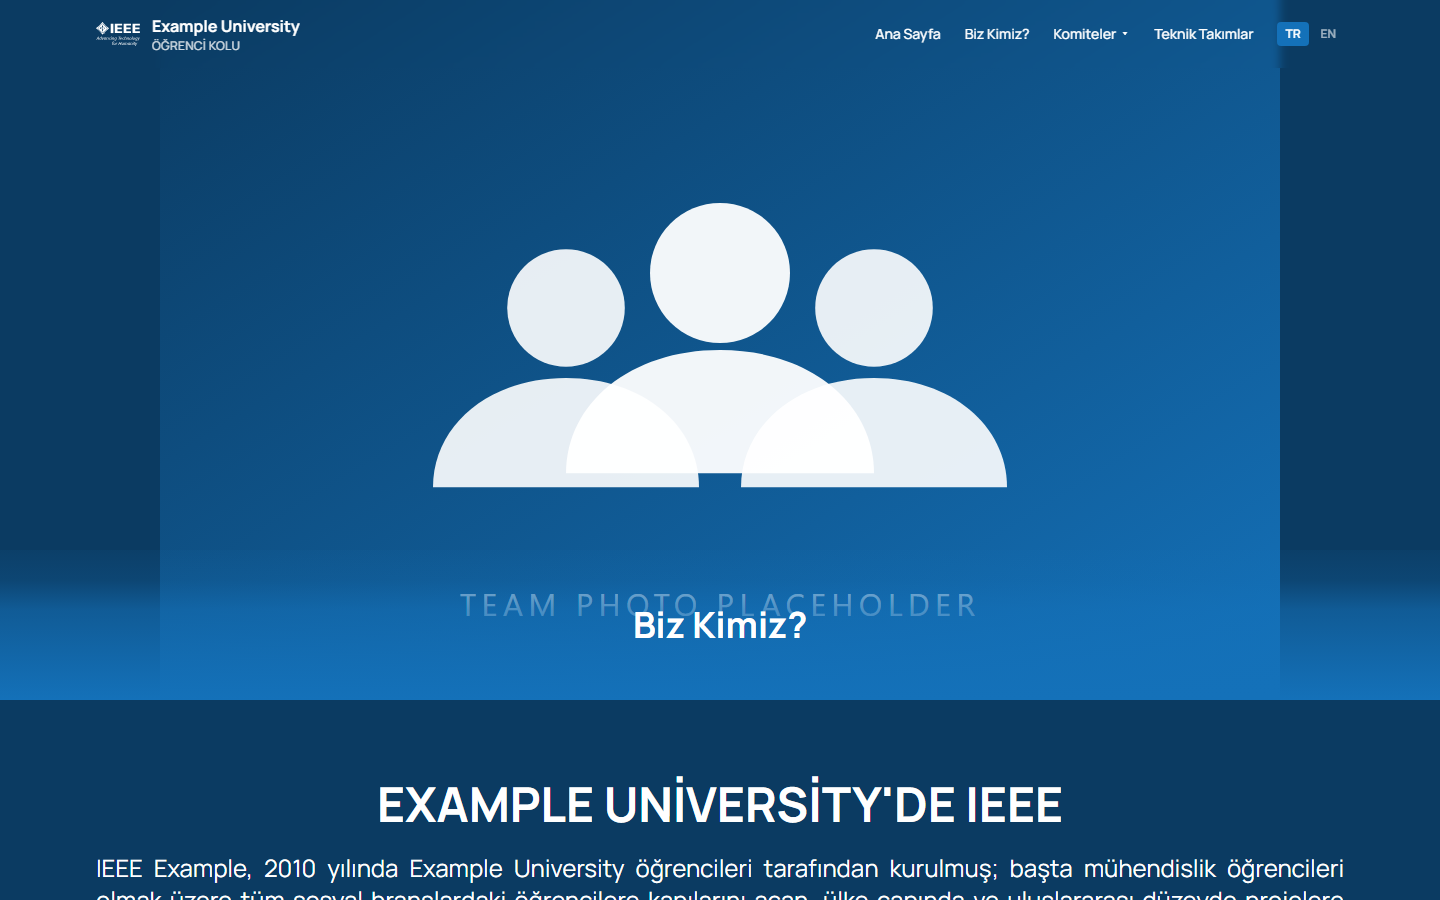
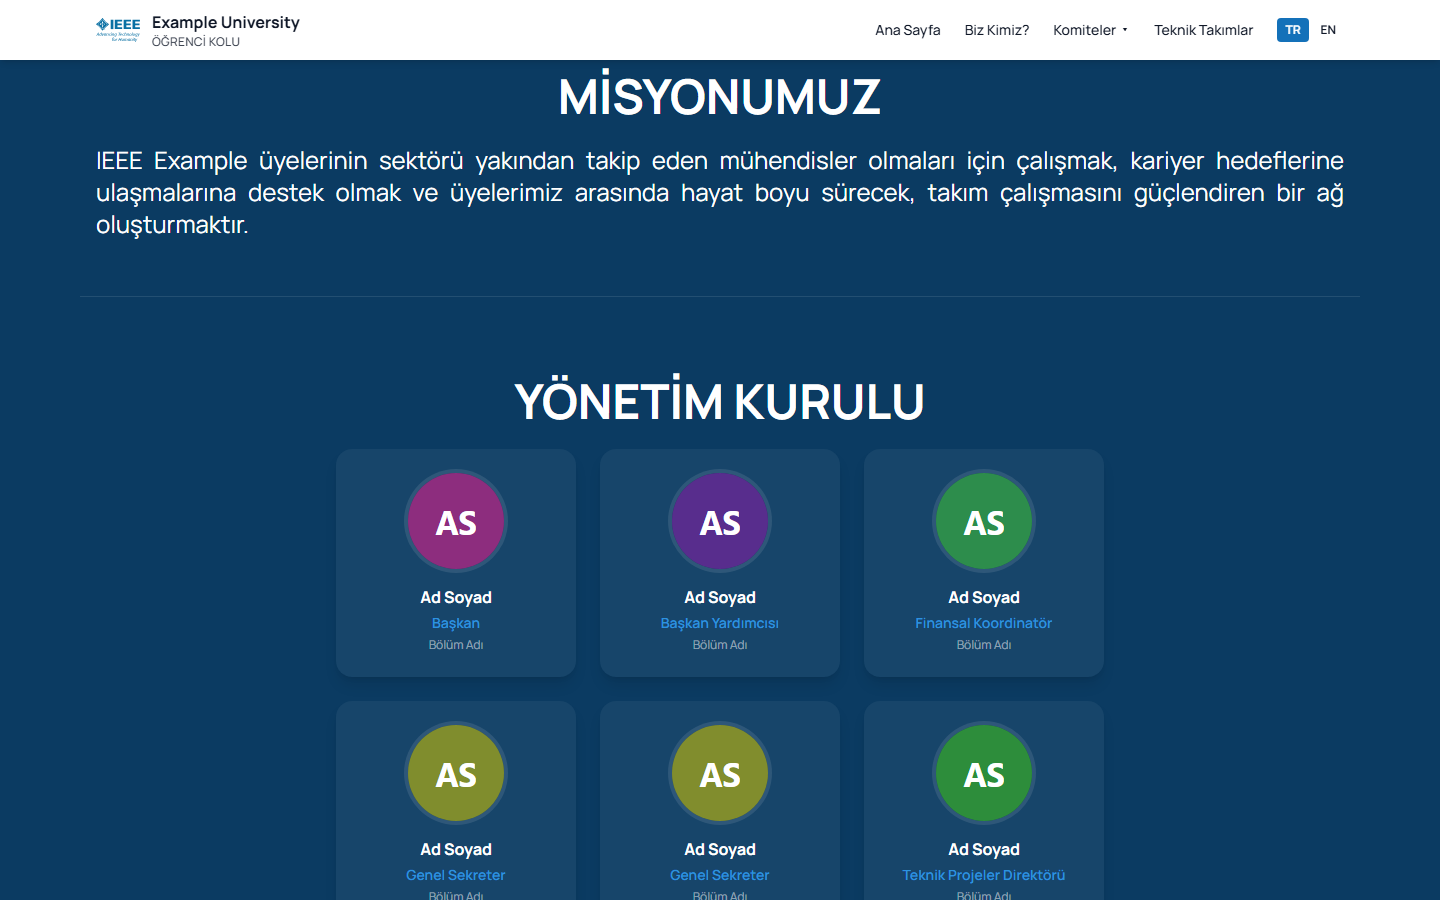
Swap repetitive IEEE template gallery images for distinct ones
Claude-Session: https://claude.ai/code/session_015fqcz68cUxzEKTgTYsUXLo

diff --git a/app/data/projects.ts b/app/data/projects.ts
@@ -201,8 +201,8 @@ export const projects: Project[] = [
     githubLink: 'https://github.com/ilkaymb/ieee-student-branch-template',
     gallery: [
       { type: 'image', src: '/projects/ieee-student-branch-template/homepage.png', label: { tr: 'Ana sayfa', en: 'Homepage' } },
-      { type: 'image', src: '/projects/ieee-student-branch-template/committee-page.png', label: { tr: 'Komite sayfası', en: 'Committee page' } },
-      { type: 'image', src: '/projects/ieee-student-branch-template/who-we-are.png', label: { tr: 'Biz kimiz sayfası', en: 'Who we are page' } },
+      { type: 'image', src: '/projects/ieee-student-branch-template/committee-page.png', label: { tr: 'Komiteler ızgarası', en: 'Committees grid' } },
+      { type: 'image', src: '/projects/ieee-student-branch-template/who-we-are.png', label: { tr: 'Otomatik üretilen placeholder avatarlar', en: 'Generated placeholder avatars' } },
     ],
   },
   {
